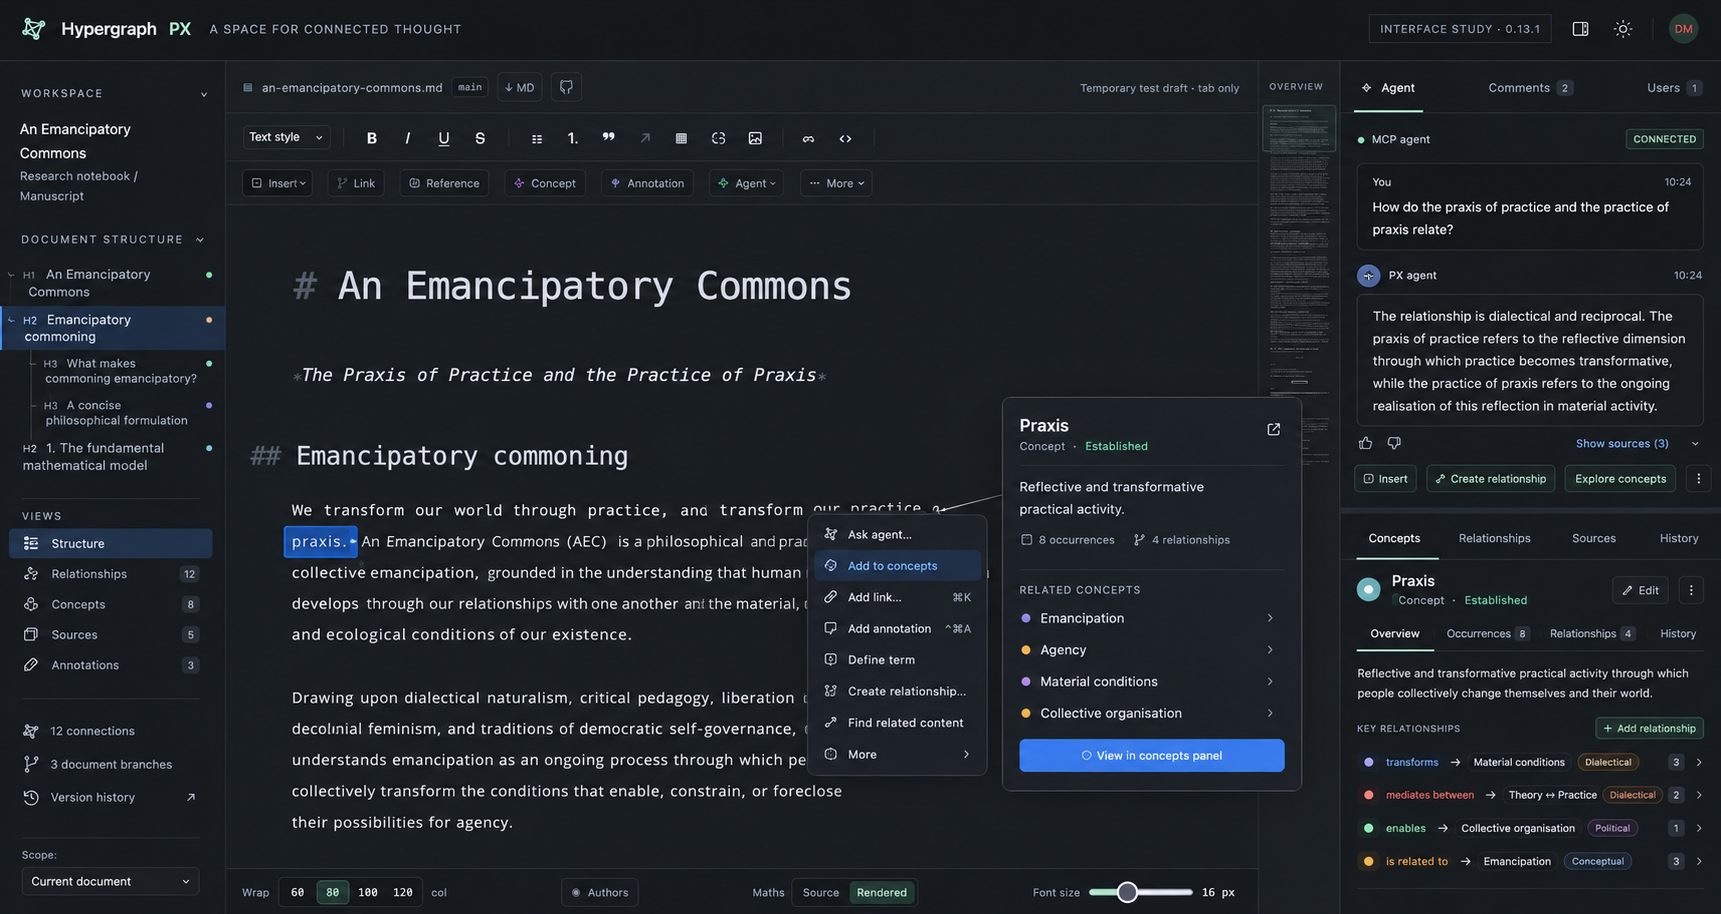
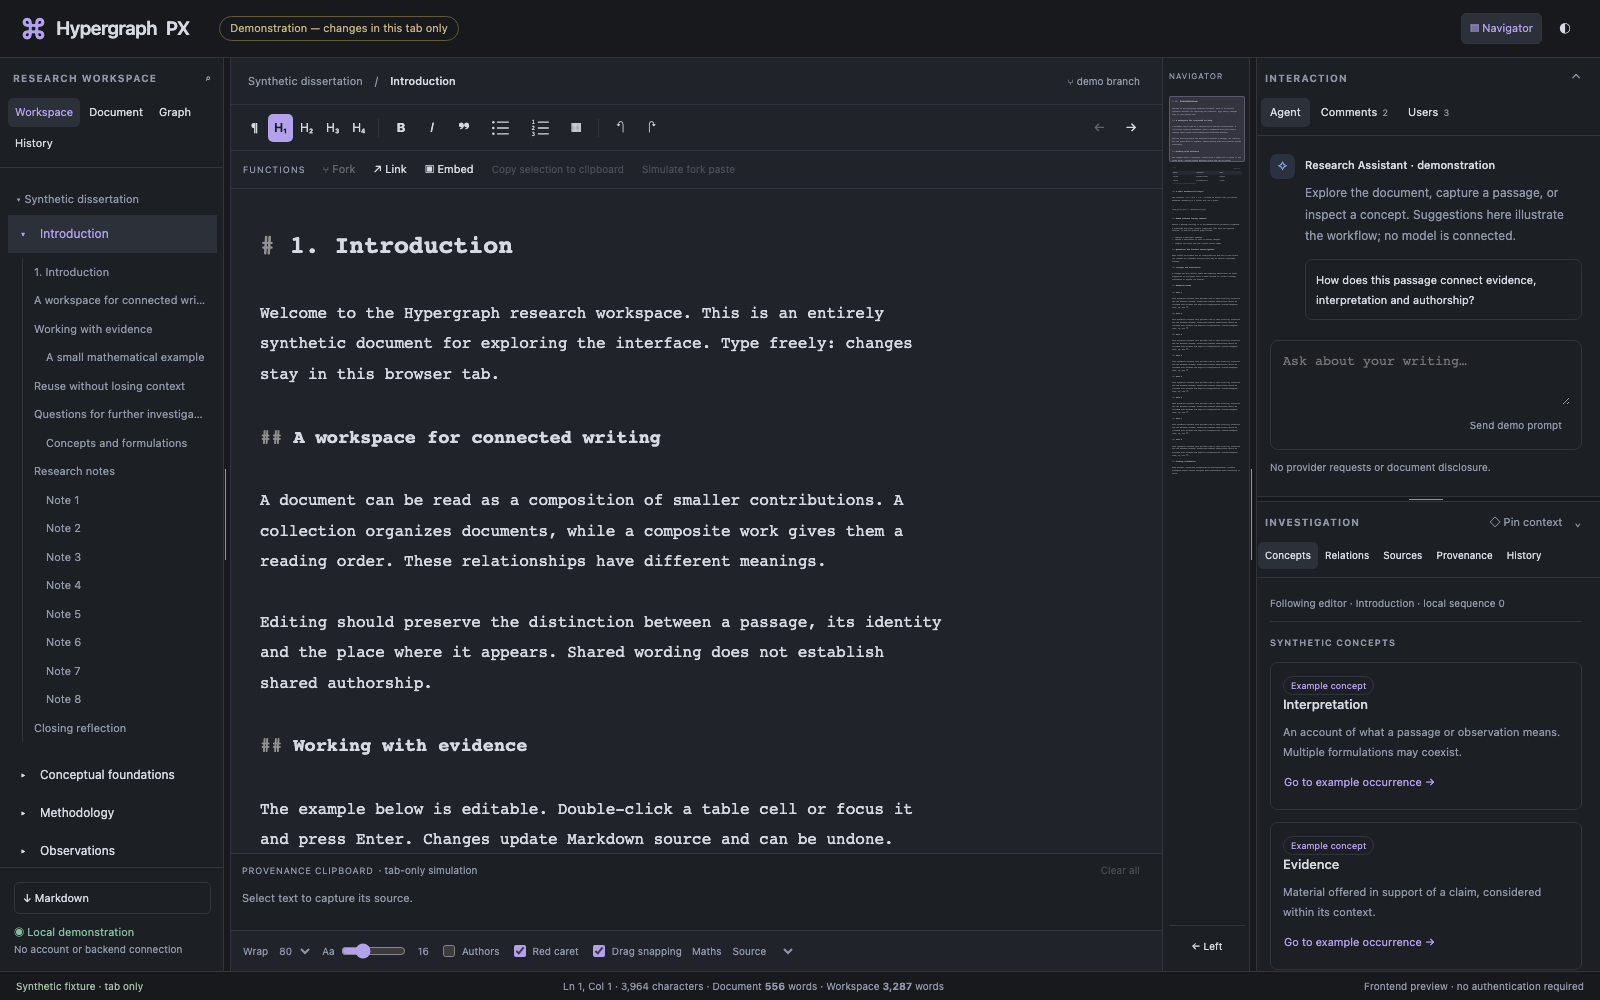
docs: refresh README screenshot with repeatable capture (0.5.3)

diff --git a/docs/DEVELOPMENT_STATE.md b/docs/DEVELOPMENT_STATE.md
@@ -1,6 +1,6 @@
 # Development state and context-compaction handoff
 
-Last updated: 2026-10-24. **Current work: validate and publish independent drag-test gesture repair 0.5.2. Owner explicitly lifted the publication hold with “Push to github”. Frontend-only scope and authentication waiver for the synthetic preview remain. Local preview: http://127.0.0.1:5173/. Historical hold statements below describe earlier instructions.** Read this first when resuming, then AGENTS.md and the linked authoritative documents. This file records actual state; it does not replace the specification or make proposed features implemented.
+Last updated: 2026-10-24. **Current work: capture and publish README screenshot refresh 0.5.3 (issue 17). Owner explicitly lifted the publication hold with “Push to github”. Frontend-only scope and authentication waiver for the synthetic preview remain. Local preview: http://127.0.0.1:5173/. Historical hold statements below describe earlier instructions.** Read this first when resuming, then AGENTS.md and the linked authoritative documents. This file records actual state; it does not replace the specification or make proposed features implemented.
 
 ## Workspace and authorization
 
@@ -242,3 +242,10 @@ Executed for 0.5.1: 19 Node tests, static build and all 26 Chromium scenarios pa
 0.5.1 b0ce8acff98a512bb70fc2be65e2642a1648e383 was verified pushed. Its frontend workflow 40136505888 failed on the same forward selection even with polling, disproving painting timing as a sufficient explanation. CodeMirror MouseSelection explicitly treats a single drag beginning inside an existing selection as selected-text dragging, with native Chromium behavior differing between macOS and Linux. Test gestures now collapse the previous selection by ArrowLeft and remeasure both source endpoints before each independent drag; no runtime behavior is changed. Version 0.5.2 is the follow-up patch. Preserve this failed diagnosis and subsequent evidence rather than claiming 0.5.1 passed hosted frontend CI.
 
 Executed for 0.5.2: five repeated drag-snapping browser scenarios passed with fresh collapsed-caret gestures; static build, locked cargo check and diff whitespace checks passed. Remaining application source/dependencies/proof sources unchanged from 0.5.1. Full 26-scenario and 19-source-test checks passed locally before this isolated test change; hosted verification of this patch remains pending.
+
+
+## README screenshot refresh — 0.5.3 / issue 17
+
+0.5.2 ac824b94e98ed0e7b252a4c34e5cf9b36dd6fdb5 was verified pushed with a clean matching remote. All four hosted workflows succeeded: Frontend 40136732913, Rust 40136732920, Lean models 40136732923, extracted Rust proof 40136732910. Completion/evidence and the failed timing-only diagnosis are recorded in issue 16; issues 14–16 closed.
+
+Owner requested automatic screenshot replacement. Added frontend/scripts/capture-readme.mjs and npm screenshot command: rebuild static assets, start an owned loopback synthetic preview on 5193, open a fresh 1600x1000 Chromium context, await fonts/layout, check page errors/overflow, write docs/images/Screenshot.png, close browser/server. Human preview on 5173 and its browser state are untouched. Only fixture data is captured; image intentionally tracked as documentation, not a test trace. README caption/alt text updated. Screenshot command executed successfully and resulting PNG visually inspected. No app runtime source, dependencies or proof guarantees changed. PATCH 0.5.3 metadata synchronized by named entries only; publication evidence follows execution.

diff --git a/frontend/README.md b/frontend/README.md
@@ -1,6 +1,6 @@
 # Frontend preview
 
-Status: runnable frontend-only synthetic-data preview, version 0.5.2. Owner explicitly resumed development and waived authentication for this test runtime. No Rust HTTP API, login, graph publication or encrypted persistence is implemented. This preview opens directly; that does not alter future backend authentication requirements.
+Status: runnable frontend-only synthetic-data preview, version 0.5.3. Owner explicitly resumed development and waived authentication for this test runtime. No Rust HTTP API, login, graph publication or encrypted persistence is implemented. This preview opens directly; that does not alter future backend authentication requirements.
 
 ## Run locally
 
@@ -51,3 +51,7 @@ npm run test:ui
 The browser suite starts the preview server if needed, or reuses the local port. It covers real editing/undo/download, chapter context, source-preserving maths/table edits, contributors, minimap/panel keyboard interaction, clipboard actions, pinned context, local comments/review, inert markup and static-server boundaries. Screenshots go to ignored `artifacts/ui/`; failure traces stay in ignored `frontend/test-results/`. Do not use real private documents in test traces. A cached browser is optional; install the matching Playwright Chromium revision when absent. These frontend checks cannot prove Rust authorization, durable storage, encryption or graph correctness.
 
 Canonical behavior: [frontend integration](../Specifications/FRONTEND_INTEGRATION.md) and [workspace interface](../Specifications/WORKSPACE_INTERFACE.md). Work/evidence: [issue 11 work record](../docs/work/0011-frontend-preview.md).
+
+## Refresh the README screenshot
+
+Run `npm --prefix frontend run screenshot` from the repository root after installing the matching Playwright Chromium browser. The command rebuilds the frontend, starts a dedicated synthetic preview on loopback port 5193, captures a fresh 1600 × 1000 browser context into `docs/images/Screenshot.png`, and closes its browser/server. Keep port 5193 free; the human testing server on 5173 is unaffected. Inspect the image before publication. No manuscript or existing browser state is captured.

diff --git a/README.md b/README.md
@@ -6,9 +6,9 @@ I am developing Hypergraph PX as a writing and thinking tool for my doctoral dis
 
 Hypergraph PX is written in Rust, with Lean used for verifying the mathematical integrity of the Rust code that implements its core functionality. This software is developed with the help of AI. 
 
-![Screenshot of Hypergraph PX](docs/images/Screenshot.png)
+![Hypergraph PX desktop preview with contents, Markdown editor, Navigator and interaction sidebar](docs/images/Screenshot.png)
 
-*Figure 1: Hypergraph PX showing the document editor. Please note this is an early screenshot, the editor is not yet fully implemented.*
+*Figure 1: Current desktop frontend preview using synthetic document data. Editing is tab-local; the Rust backend is not connected.*
 
 Conventional documents are organised as trees: documents contain sections, sections contain paragraphs, and paragraphs contain sentences. Hypergraph PX preserves this familiar structure while extending it through a network of relationships between content, its origins, its revisions, and its uses across different documents.
 
@@ -52,7 +52,7 @@ These aims describe direction rather than a release-date commitment. Detailed me
 
 ## Current status
 
-Early development: pure Rust expansion validation, in-memory encryption/key wrapping and a separately runnable synthetic-data frontend preview are implemented. Durable workspace storage and the integrated Rust application remain planned. Current version: **0.5.2**; license: [AGPL-3.0-only](LICENSE).
+Early development: pure Rust expansion validation, in-memory encryption/key wrapping and a separately runnable synthetic-data frontend preview are implemented. Durable workspace storage and the integrated Rust application remain planned. Current version: **0.5.3**; license: [AGPL-3.0-only](LICENSE).
 
 ## Frontend preview
 

diff --git a/CHANGELOG.md b/CHANGELOG.md
@@ -2,6 +2,11 @@
 
 Project versions follow [Semantic Versioning 2.0.0](https://semver.org/spec/v2.0.0.html); see Specifications/SPECIFICATION.md §8 for the initial-development convention and push policy.
 
+## 0.5.3 — 2026-10-25
+
+- Refresh the README desktop screenshot from the current synthetic preview and clarify its fixture-only caption.
+- Add a repeatable screenshot command using a fresh browser context and dedicated loopback preview, preserving the human testing session.
+
 ## 0.5.2 — 2026-10-25
 
 - Begin each independent snapping-test gesture with a collapsed caret and freshly measured coordinates. Avoid Chromium treating a drag inside the previous selection as native selected-text drag/drop. Preserve exact source and forward/backward assertions; no runtime change.

diff --git a/Specifications/SPECIFICATION.md b/Specifications/SPECIFICATION.md
@@ -1,6 +1,6 @@
 # Hypergraph PX MU-F — product specification
 
-Status: current requirements, 2026-10-24. Project version 0.5.2. This document defines the approved product requirements. The architecture, mathematical model, data reference and encryption specification in this directory elaborate these requirements and distinguish implemented behavior from planned work.
+Status: current requirements, 2026-10-24. Project version 0.5.3. This document defines the approved product requirements. The architecture, mathematical model, data reference and encryption specification in this directory elaborate these requirements and distinguish implemented behavior from planned work.
 
 ## 1. Scope and architecture
 
